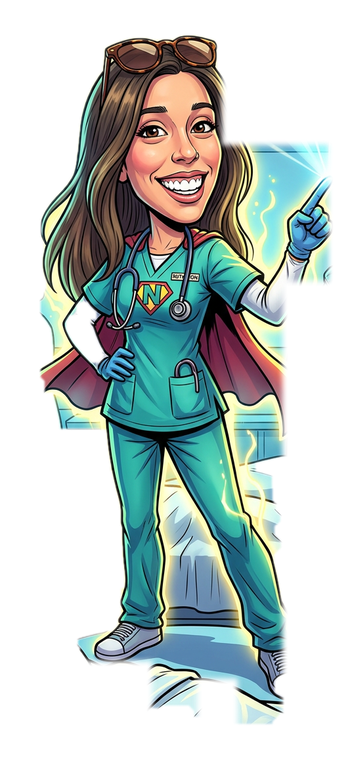
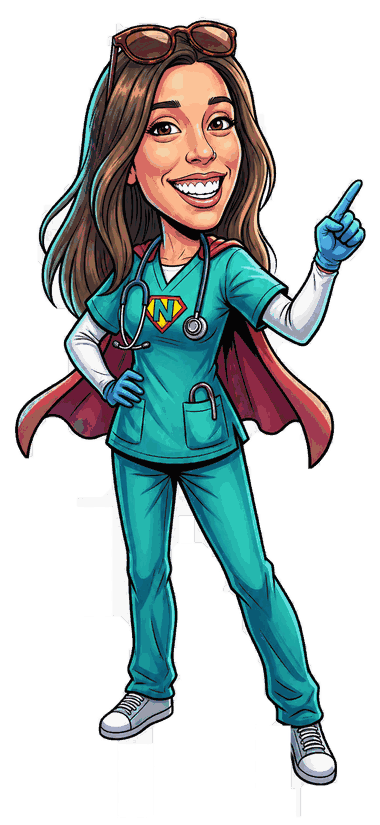
Nutri's image

diff --git a/css/style.css b/css/style.css
@@ -383,6 +383,13 @@ button {
   filter: drop-shadow(0 8px 10px var(--shadow));
 }
 
+/* A rapariga em si fica maior/mais visível do que o resto dos placeholders
+   .emoji — mas o #basket .emoji (mais abaixo) mantém o seu próprio tamanho,
+   já que a colisão é medida pela caixa do #basket e não deve mudar. */
+#girl #girl-emoji {
+  font-size: clamp(78px, 20vw, 138px);
+}
+
 /* A imagem da rapariga é um corpo inteiro (retrato alto), ao contrário dos
    outros placeholders — não pode ser recortada num quadrado como .emoji img
    faz por omissão. Aqui a altura acompanha o tamanho do "emoji" (1em) e a
